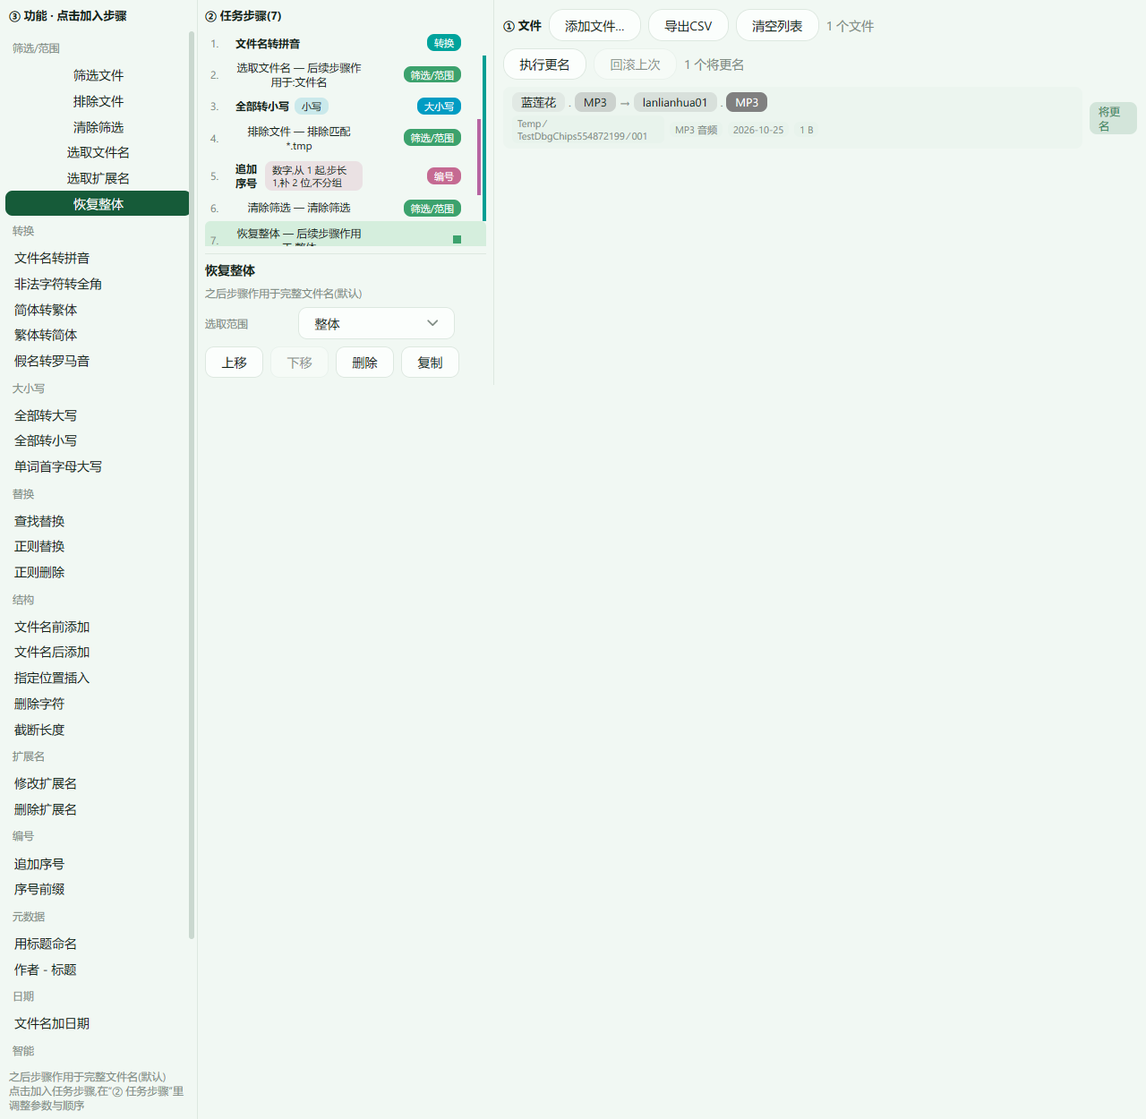
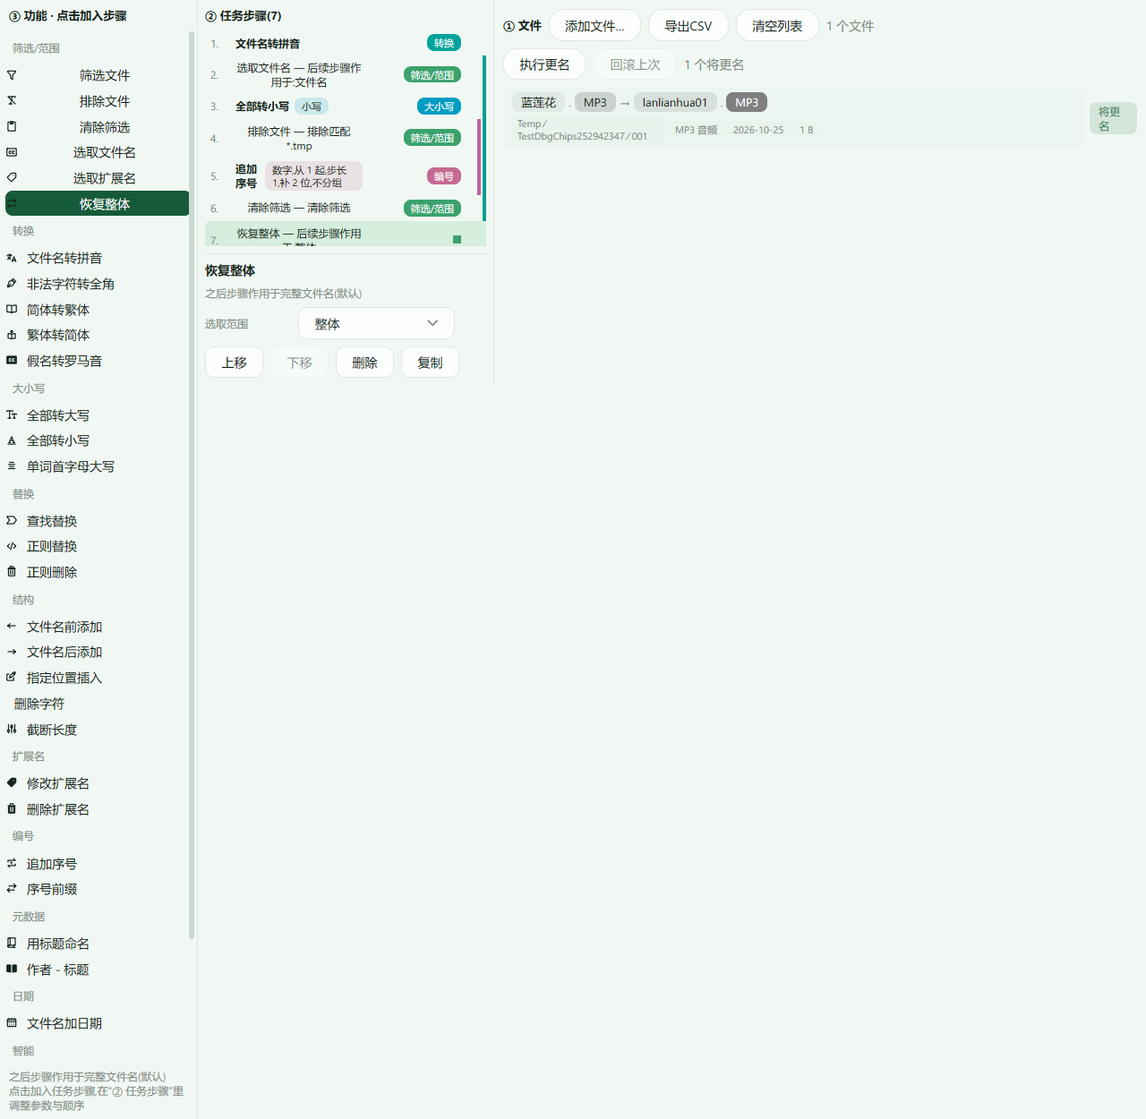
feat: 引入 Flowbite 图标组(MIT, 经 iconify-json 管线生成 32 个内嵌 SVG)——目录条目按功能配图标

diff --git a/gui/rules_editor.go b/gui/rules_editor.go
@@ -50,6 +50,7 @@ type guiRule struct {
 type opDef struct {
 	id, group, label string
 	desc             string // one line of what it does, shown on hover
+	icon             string // flowbite icon op id
 	make             func() guiRule
 	act              string // non-empty: runs an action instead of a step
 	flow             bool   // 流程控制(筛选/范围): not a direct rename
@@ -95,139 +96,139 @@ func baseRule(kind string) guiRule {
 // catalog is the grouped palette of the left pane. Each entry is a full,
 // named operation ("大小转换 · 全部小写"), not a type plus sub-dropdowns.
 var catalog = []opDef{
-	{id: "filter", group: "筛选/范围", flow: true, label: "筛选文件", desc: "之后步骤只作用于匹配通配符的文件(如 *.mp3),其余原样通过", make: func() guiRule {
+	{id: "filter", icon: "filter", group: "筛选/范围", flow: true, label: "筛选文件", desc: "之后步骤只作用于匹配通配符的文件(如 *.mp3),其余原样通过", make: func() guiRule {
 		return baseRule("filter")
 	}},
-	{id: "filter.out", group: "筛选/范围", flow: true, label: "排除文件", desc: "排除匹配的文件,其余文件继续被后续步骤处理", make: func() guiRule {
+	{id: "filter.out", icon: "filter.out", group: "筛选/范围", flow: true, label: "排除文件", desc: "排除匹配的文件,其余文件继续被后续步骤处理", make: func() guiRule {
 		r := baseRule("filter")
 		r.invert = true
 		return r
 	}},
-	{id: "unfilter", group: "筛选/范围", flow: true, label: "清除筛选", desc: "取消筛选,恢复全部文件参与后续步骤", make: func() guiRule {
+	{id: "unfilter", icon: "unfilter", group: "筛选/范围", flow: true, label: "清除筛选", desc: "取消筛选,恢复全部文件参与后续步骤", make: func() guiRule {
 		return baseRule("unfilter")
 	}},
-	{id: "scope.name", group: "筛选/范围", flow: true, label: "选取文件名", desc: "之后步骤只改文件名主体,不动扩展名", make: func() guiRule {
+	{id: "scope.name", icon: "scope.name", group: "筛选/范围", flow: true, label: "选取文件名", desc: "之后步骤只改文件名主体,不动扩展名", make: func() guiRule {
 		r := baseRule("scope")
 		r.scopeSel = "文件名"
 		return r
 	}},
-	{id: "scope.ext", group: "筛选/范围", flow: true, label: "选取扩展名", desc: "之后步骤只改扩展名,不动文件名主体", make: func() guiRule {
+	{id: "scope.ext", icon: "scope.ext", group: "筛选/范围", flow: true, label: "选取扩展名", desc: "之后步骤只改扩展名,不动文件名主体", make: func() guiRule {
 		r := baseRule("scope")
 		r.scopeSel = "扩展名"
 		return r
 	}},
-	{id: "scope.all", group: "筛选/范围", flow: true, label: "恢复整体", desc: "之后步骤作用于完整文件名(默认)", make: func() guiRule {
+	{id: "scope.all", icon: "scope.all", group: "筛选/范围", flow: true, label: "恢复整体", desc: "之后步骤作用于完整文件名(默认)", make: func() guiRule {
 		r := baseRule("scope")
 		r.scopeSel = "整体"
 		return r
 	}},
-	{id: "pinyin", group: "转换", label: "文件名转拼音", desc: "汉字转拼音,全角字母数字自动转半角", make: func() guiRule {
+	{id: "pinyin", icon: "pinyin", group: "转换", label: "文件名转拼音", desc: "汉字转拼音,全角字母数字自动转半角", make: func() guiRule {
 		return baseRule("pinyin")
 	}},
-	{id: "sanitize", group: "转换", label: "非法字符转全角", desc: "Windows 保留字符(如 : / ? *)转为全角,信息不丢失", make: func() guiRule {
+	{id: "sanitize", icon: "sanitize", group: "转换", label: "非法字符转全角", desc: "Windows 保留字符(如 : / ? *)转为全角,信息不丢失", make: func() guiRule {
 		return baseRule("sanitize")
 	}},
-	{id: "cc.s2t", group: "转换", label: "简体转繁体", desc: "用 OpenCC 词典把文件名转为繁体", make: func() guiRule {
+	{id: "cc.s2t", icon: "cc.s2t", group: "转换", label: "简体转繁体", desc: "用 OpenCC 词典把文件名转为繁体", make: func() guiRule {
 		r := baseRule("cc")
 		r.ccSel = "简体→繁体"
 		return r
 	}},
-	{id: "cc.t2s", group: "转换", label: "繁体转简体", desc: "用 OpenCC 词典把文件名转为简体", make: func() guiRule {
+	{id: "cc.t2s", icon: "cc.t2s", group: "转换", label: "繁体转简体", desc: "用 OpenCC 词典把文件名转为简体", make: func() guiRule {
 		r := baseRule("cc")
 		r.ccSel = "繁体→简体"
 		return r
 	}},
-	{id: "romaji", group: "转换", label: "假名转罗马音", desc: "平假名/片假名转拉丁字母(汉字保留)", make: func() guiRule {
+	{id: "romaji", icon: "romaji", group: "转换", label: "假名转罗马音", desc: "平假名/片假名转拉丁字母(汉字保留)", make: func() guiRule {
 		return baseRule("romaji")
 	}},
-	{id: "case.upper", group: "大小写", label: "全部转大写", desc: "文件名所有字母转大写", make: func() guiRule {
+	{id: "case.upper", icon: "case.upper", group: "大小写", label: "全部转大写", desc: "文件名所有字母转大写", make: func() guiRule {
 		r := baseRule("case")
 		r.caseMode = "大写"
 		return r
 	}},
-	{id: "case.lower", group: "大小写", label: "全部转小写", desc: "文件名所有字母转小写", make: func() guiRule {
+	{id: "case.lower", icon: "case.lower", group: "大小写", label: "全部转小写", desc: "文件名所有字母转小写", make: func() guiRule {
 		r := baseRule("case")
 		r.caseMode = "小写"
 		return r
 	}},
-	{id: "case.title", group: "大小写", label: "单词首字母大写", desc: "每个单词首字母大写(标题式)", make: func() guiRule {
+	{id: "case.title", icon: "case.title", group: "大小写", label: "单词首字母大写", desc: "每个单词首字母大写(标题式)", make: func() guiRule {
 		r := baseRule("case")
 		r.caseMode = "标题"
 		return r
 	}},
-	{id: "replace", group: "替换", label: "查找替换", desc: "把查找的文字替换为指定内容", make: func() guiRule {
+	{id: "replace", icon: "replace", group: "替换", label: "查找替换", desc: "把查找的文字替换为指定内容", make: func() guiRule {
 		return baseRule("replace")
 	}},
-	{id: "replace.re", group: "替换", label: "正则替换", desc: "用正则表达式查找并替换", make: func() guiRule {
+	{id: "replace.re", icon: "replace.re", group: "替换", label: "正则替换", desc: "用正则表达式查找并替换", make: func() guiRule {
 		r := baseRule("replace")
 		r.regex = true
 		return r
 	}},
-	{id: "del.re", group: "替换", label: "正则删除", desc: "删除正则表达式匹配到的部分", make: func() guiRule {
+	{id: "del.re", icon: "del.re", group: "替换", label: "正则删除", desc: "删除正则表达式匹配到的部分", make: func() guiRule {
 		r := baseRule("replace")
 		r.regex = true
 		return r
 	}},
-	{id: "ins.front", group: "结构", label: "文件名前添加", desc: "在文件名主体开头插入文字", make: func() guiRule {
+	{id: "ins.front", icon: "ins.front", group: "结构", label: "文件名前添加", desc: "在文件名主体开头插入文字", make: func() guiRule {
 		r := baseRule("insert")
 		r.insMode = "front"
 		return r
 	}},
-	{id: "ins.end", group: "结构", label: "文件名后添加", desc: "在文件名主体末尾(扩展名之前)插入文字", make: func() guiRule {
+	{id: "ins.end", icon: "ins.end", group: "结构", label: "文件名后添加", desc: "在文件名主体末尾(扩展名之前)插入文字", make: func() guiRule {
 		r := baseRule("insert")
 		r.insMode = "end"
 		return r
 	}},
-	{id: "insert", group: "结构", label: "指定位置插入", desc: "从第 N 个字符处插入文字", make: func() guiRule {
+	{id: "insert", icon: "insert", group: "结构", label: "指定位置插入", desc: "从第 N 个字符处插入文字", make: func() guiRule {
 		return baseRule("insert")
 	}},
-	{id: "delete", group: "结构", label: "删除字符", desc: "从第 N 个字符起删除指定数量的字符", make: func() guiRule {
+	{id: "delete", icon: "delete", group: "结构", label: "删除字符", desc: "从第 N 个字符起删除指定数量的字符", make: func() guiRule {
 		return baseRule("delete")
 	}},
-	{id: "truncate", group: "结构", label: "截断长度", desc: "文件名主体最多保留 N 个字符", make: func() guiRule {
+	{id: "truncate", icon: "truncate", group: "结构", label: "截断长度", desc: "文件名主体最多保留 N 个字符", make: func() guiRule {
 		return baseRule("truncate")
 	}},
-	{id: "ext", group: "扩展名", label: "修改扩展名", desc: "替换扩展名;填空则删除扩展名", make: func() guiRule {
+	{id: "ext", icon: "ext", group: "扩展名", label: "修改扩展名", desc: "替换扩展名;填空则删除扩展名", make: func() guiRule {
 		return baseRule("ext")
 	}},
-	{id: "ext.del", group: "扩展名", label: "删除扩展名", desc: "去掉文件的扩展名", make: func() guiRule {
+	{id: "ext.del", icon: "ext.del", group: "扩展名", label: "删除扩展名", desc: "去掉文件的扩展名", make: func() guiRule {
 		r := baseRule("ext")
 		r.newExt = ""
 		return r
 	}},
-	{id: "seq", group: "编号", label: "追加序号", desc: "文件名末尾追加编号;可分组重新计数、补零、用字母", make: func() guiRule {
+	{id: "seq", icon: "seq", group: "编号", label: "追加序号", desc: "文件名末尾追加编号;可分组重新计数、补零、用字母", make: func() guiRule {
 		return baseRule("seq")
 	}},
-	{id: "seq.prefix", group: "编号", label: "序号前缀", desc: "编号放文件名前面,如 01-原名", make: func() guiRule {
+	{id: "seq.prefix", icon: "seq.prefix", group: "编号", label: "序号前缀", desc: "编号放文件名前面,如 01-原名", make: func() guiRule {
 		r := baseRule("seq")
 		r.numTpl = "<N>-<NAME><.EXT>"
 		return r
 	}},
-	{id: "meta.title", group: "元数据", label: "用标题命名", desc: "用元数据标题(EPUB/MP4/PDF)作为文件名", make: func() guiRule {
+	{id: "meta.title", icon: "meta.title", group: "元数据", label: "用标题命名", desc: "用元数据标题(EPUB/MP4/PDF)作为文件名", make: func() guiRule {
 		r := baseRule("template")
 		r.tpl = "<META:title><.EXT>"
 		return r
 	}},
-	{id: "meta.author", group: "元数据", label: "作者 - 标题", desc: "用元数据的作者和标题命名,如 作者 - 书名", make: func() guiRule {
+	{id: "meta.author", icon: "meta.author", group: "元数据", label: "作者 - 标题", desc: "用元数据的作者和标题命名,如 作者 - 书名", make: func() guiRule {
 		r := baseRule("template")
 		r.tpl = "<META:author> - <META:title><.EXT>"
 		return r
 	}},
-	{id: "date.suffix", group: "日期", label: "文件名加日期", desc: "文件名后附加文件修改日期", make: func() guiRule {
+	{id: "date.suffix", icon: "date.suffix", group: "日期", label: "文件名加日期", desc: "文件名后附加文件修改日期", make: func() guiRule {
 		r := baseRule("template")
 		r.tpl = "<NAME>_<DATE><.EXT>"
 		return r
 	}},
-	{id: "ai", group: "智能", label: "AI 按内容命名", desc: "调用 AI 接口读文件内容,按内容起名(需在设置里配置)", make: func() guiRule {
+	{id: "ai", icon: "ai", group: "智能", label: "AI 按内容命名", desc: "调用 AI 接口读文件内容,按内容起名(需在设置里配置)", make: func() guiRule {
 		r := baseRule("template")
 		r.tpl = "<AI:根据文件内容起一个简短的名字><.EXT>"
 		return r
 	}},
-	{id: "tpl", group: "高级", label: "自定义模板", desc: "用变量模板重建文件名,可用 <NAME> <DATE> <META:…> 等", make: func() guiRule {
+	{id: "tpl", icon: "tpl", group: "高级", label: "自定义模板", desc: "用变量模板重建文件名,可用 <NAME> <DATE> <META:…> 等", make: func() guiRule {
 		return baseRule("template")
 	}},
-	{id: "act.import-csv", group: "高级", label: "导入编辑好的CSV改名", desc: "按导出的 CSV 列表(new_name 列)批量改名;点击立即执行,不加入步骤", act: "import-csv"},
-	{id: "act.settings", group: "高级", label: "设置", desc: "AI 接口、主题颜色、日志位置;点击打开设置窗口,不加入步骤", act: "settings"},
+	{id: "act.import-csv", icon: "act.import-csv", group: "高级", label: "导入编辑好的CSV改名", desc: "按导出的 CSV 列表(new_name 列)批量改名;点击立即执行,不加入步骤", act: "import-csv"},
+	{id: "act.settings", icon: "act.settings", group: "高级", label: "设置", desc: "AI 接口、主题颜色、日志位置;点击打开设置窗口,不加入步骤", act: "settings"},
 }
 
 func opByID(id string) (opDef, bool) {

diff --git a/gui/flowbite_gen.go b/gui/flowbite_gen.go
@@ -1,0 +1,38 @@
+// Code generated from @iconify-json/flowbite (MIT) icons.json; do not edit.
+// https://github.com/themesberg/flowbite-icons — 字形以 currentColor 描边,跟随文字色。
+package main
+
+var flowbiteBodies = map[string]string{
+	"filter":         "<svg xmlns=\"http://www.w3.org/2000/svg\" viewBox=\"0 0 24 24\" fill=\"none\"><path fill=\"none\" stroke=\"currentColor\" stroke-linecap=\"round\" stroke-width=\"2\" d=\"M18.796 4H5.204a1 1 0 0 0-.753 1.659l5.302 6.058a1 1 0 0 1 .247.659v4.874a.5.5 0 0 0 .2.4l3 2.25a.5.5 0 0 0 .8-.4v-7.124a1 1 0 0 1 .247-.659l5.302-6.059c.566-.646.106-1.658-.753-1.658Z\"/></svg>",
+	"filter.out":     "<svg xmlns=\"http://www.w3.org/2000/svg\" viewBox=\"0 0 24 24\" fill=\"none\"><path fill=\"none\" stroke=\"currentColor\" stroke-linecap=\"round\" stroke-linejoin=\"round\" stroke-width=\"2\" d=\"M7 6.2V5h12v1.2M7 19h6m.2-14l-1.677 6.523M9.6 19l1.029-4M5 5l6.523 6.523M19 19l-7.477-7.477\"/></svg>",
+	"unfilter":       "<svg xmlns=\"http://www.w3.org/2000/svg\" viewBox=\"0 0 24 24\" fill=\"none\"><path fill=\"none\" stroke=\"currentColor\" stroke-linecap=\"round\" stroke-linejoin=\"round\" stroke-width=\"2\" d=\"M15 4h3a1 1 0 0 1 1 1v15a1 1 0 0 1-1 1H6a1 1 0 0 1-1-1V5a1 1 0 0 1 1-1h3m0 3h6m-5-4v4h4V3z\"/></svg>",
+	"scope.name":     "<svg xmlns=\"http://www.w3.org/2000/svg\" viewBox=\"0 0 24 24\" fill=\"none\"><path fill=\"none\" stroke=\"currentColor\" stroke-linecap=\"round\" stroke-linejoin=\"round\" stroke-width=\"2\" d=\"M10.855 14.322a2.475 2.475 0 1 1 .133-4.241m6.053 4.241a2.475 2.475 0 1 1 .133-4.241M4 5h16a1 1 0 0 1 1 1v12a1 1 0 0 1-1 1H4a1 1 0 0 1-1-1V6a1 1 0 0 1 1-1\"/></svg>",
+	"scope.ext":      "<svg xmlns=\"http://www.w3.org/2000/svg\" viewBox=\"0 0 24 24\" fill=\"none\"><path fill=\"none\" stroke=\"currentColor\" stroke-linecap=\"round\" stroke-linejoin=\"round\" stroke-width=\"2\" d=\"M15.583 8.445h.01M10.86 19.71l-6.573-6.63a.993.993 0 0 1 0-1.4l7.329-7.394A.98.98 0 0 1 12.31 4l5.734.007A1.97 1.97 0 0 1 20 5.983v5.5a1 1 0 0 1-.316.727l-7.44 7.5a.974.974 0 0 1-1.384.001Z\"/></svg>",
+	"scope.all":      "<svg xmlns=\"http://www.w3.org/2000/svg\" viewBox=\"0 0 24 24\" fill=\"none\"><path fill=\"none\" stroke=\"currentColor\" stroke-linecap=\"round\" stroke-linejoin=\"round\" stroke-width=\"2\" d=\"m16 10l3-3m0 0l-3-3m3 3H5v3m3 4l-3 3m0 0l3 3m-3-3h14v-3\"/></svg>",
+	"pinyin":         "<svg xmlns=\"http://www.w3.org/2000/svg\" viewBox=\"0 0 24 24\" fill=\"none\"><path fill=\"none\" stroke=\"currentColor\" stroke-linecap=\"round\" stroke-linejoin=\"round\" stroke-width=\"2\" d=\"m13 19l3.5-9l3.5 9m-6.125-2h5.25M3 7h7m0 0h2m-2 0c0 1.63-.793 3.926-2.239 5.655M7.5 6.818V5m.261 7.655C6.79 13.82 5.521 14.725 4 15m3.761-2.345L5 10m2.761 2.655L10.2 15\"/></svg>",
+	"sanitize":       "<svg xmlns=\"http://www.w3.org/2000/svg\" viewBox=\"0 0 24 24\" fill=\"none\"><path fill=\"none\" stroke=\"currentColor\" stroke-linecap=\"round\" stroke-linejoin=\"round\" stroke-width=\"2\" d=\"m4.988 19.012l5.41-5.41m2.366-6.424l4.058 4.058l-2.03 5.41L5.3 20L4 18.701l3.355-9.494l5.41-2.029Zm4.626 4.625L12.197 6.61L14.807 4L20 9.194z\"/></svg>",
+	"cc.s2t":         "<svg xmlns=\"http://www.w3.org/2000/svg\" viewBox=\"0 0 24 24\" fill=\"none\"><path fill=\"none\" stroke=\"currentColor\" stroke-linecap=\"round\" stroke-linejoin=\"round\" stroke-width=\"2\" d=\"M12 6.03v13m0-13c-2.819-.831-4.715-1.076-8.029-1.023A.99.99 0 0 0 3 6v11c0 .563.466 1.014 1.03 1.007c3.122-.043 5.018.212 7.97 1.023m0-13c2.819-.831 4.715-1.076 8.029-1.023A.99.99 0 0 1 21 6v11c0 .563-.466 1.014-1.03 1.007c-3.122-.043-5.018.212-7.97 1.023\"/></svg>",
+	"cc.t2s":         "<svg xmlns=\"http://www.w3.org/2000/svg\" viewBox=\"0 0 24 24\" fill=\"none\"><path fill=\"none\" stroke=\"currentColor\" stroke-linejoin=\"round\" stroke-width=\"2\" d=\"M12.143 11v9m0-9c-2.506-.71-3.191-1.395-6.137-1.35a.864.864 0 0 0-.863.85v7.288c0 .483.414.869.916.862c2.775-.036 3.46.656 6.084 1.35m0-9c2.505-.71 3.107-1.395 6.052-1.35c.48.008.948.388.948.85v7.288c0 .483-.499.869-1 .862c-2.775-.036-3.376.656-6 1.35m2-14a2 2 0 1 1-4 0a2 2 0 0 1 4 0Z\"/></svg>",
+	"romaji":         "<svg xmlns=\"http://www.w3.org/2000/svg\" viewBox=\"0 0 24 24\" fill=\"none\"><path fill=\"currentColor\" fill-rule=\"evenodd\" d=\"M2 6a2 2 0 0 1 2-2h16a2 2 0 0 1 2 2v12a2 2 0 0 1-2 2H4a2 2 0 0 1-2-2zm6.962 4.856a1.48 1.48 0 0 1 1.484.066A1 1 0 1 0 11.53 9.24a3.475 3.475 0 1 0-.187 5.955a1 1 0 1 0-.976-1.746a1.474 1.474 0 1 1-1.405-2.593m6.186 0a1.48 1.48 0 0 1 1.484.066a1 1 0 1 0 1.084-1.682a3.475 3.475 0 1 0-.187 5.955a1 1 0 1 0-.976-1.746a1.474 1.474 0 1 1-1.405-2.593\" clip-rule=\"evenodd\"/></svg>",
+	"case.upper":     "<svg xmlns=\"http://www.w3.org/2000/svg\" viewBox=\"0 0 24 24\" fill=\"none\"><path fill=\"none\" stroke=\"currentColor\" stroke-linecap=\"round\" stroke-linejoin=\"round\" stroke-width=\"2\" d=\"M3 6.2V5h11v1.2M8 5v14m-3 0h6m2-6.8V11h8v1.2M17 11v8m-1.5 0h3\"/></svg>",
+	"case.lower":     "<svg xmlns=\"http://www.w3.org/2000/svg\" viewBox=\"0 0 24 24\" fill=\"none\"><path fill=\"none\" stroke=\"currentColor\" stroke-linecap=\"round\" stroke-width=\"2\" d=\"M5 19h14M7.6 16l4.298-10.93a.11.11 0 0 1 .204 0L16.4 16m-8.8 0H6.5m1.1 0h1.65m7.15 0h-1.65m1.65 0h1.1m-8.333-4h5.66\"/></svg>",
+	"case.title":     "<svg xmlns=\"http://www.w3.org/2000/svg\" viewBox=\"0 0 24 24\" fill=\"none\"><path fill=\"none\" stroke=\"currentColor\" stroke-linecap=\"round\" stroke-linejoin=\"round\" stroke-width=\"2\" d=\"M8 6h8M6 10h12M8 14h8M6 18h12\"/></svg>",
+	"replace":        "<svg xmlns=\"http://www.w3.org/2000/svg\" viewBox=\"0 0 24 24\" fill=\"none\"><path fill=\"none\" stroke=\"currentColor\" stroke-linecap=\"round\" stroke-linejoin=\"round\" stroke-width=\"2\" d=\"M16.153 19L21 12l-4.847-7H3l4.848 7L3 19z\"/></svg>",
+	"replace.re":     "<svg xmlns=\"http://www.w3.org/2000/svg\" viewBox=\"0 0 24 24\" fill=\"none\"><path fill=\"none\" stroke=\"currentColor\" stroke-linecap=\"round\" stroke-linejoin=\"round\" stroke-width=\"2\" d=\"m8 8l-4 4l4 4m8 0l4-4l-4-4m-2-3l-4 14\"/></svg>",
+	"del.re":         "<svg xmlns=\"http://www.w3.org/2000/svg\" viewBox=\"0 0 24 24\" fill=\"none\"><path fill=\"none\" stroke=\"currentColor\" stroke-linecap=\"round\" stroke-linejoin=\"round\" stroke-width=\"2\" d=\"M5 7h14m-9 3v8m4-8v8M10 3h4a1 1 0 0 1 1 1v3H9V4a1 1 0 0 1 1-1M6 7h12v13a1 1 0 0 1-1 1H7a1 1 0 0 1-1-1z\"/></svg>",
+	"ins.front":      "<svg xmlns=\"http://www.w3.org/2000/svg\" viewBox=\"0 0 24 24\" fill=\"none\"><path fill=\"none\" stroke=\"currentColor\" stroke-linecap=\"round\" stroke-linejoin=\"round\" stroke-width=\"2\" d=\"M5 12h14M5 12l4-4m-4 4l4 4\"/></svg>",
+	"ins.end":        "<svg xmlns=\"http://www.w3.org/2000/svg\" viewBox=\"0 0 24 24\" fill=\"none\"><path fill=\"none\" stroke=\"currentColor\" stroke-linecap=\"round\" stroke-linejoin=\"round\" stroke-width=\"2\" d=\"M19 12H5m14 0l-4 4m4-4l-4-4\"/></svg>",
+	"insert":         "<svg xmlns=\"http://www.w3.org/2000/svg\" viewBox=\"0 0 24 24\" fill=\"none\"><path fill=\"none\" stroke=\"currentColor\" stroke-linecap=\"round\" stroke-linejoin=\"round\" stroke-width=\"2\" d=\"m14.304 4.844l2.852 2.852M7 7H4a1 1 0 0 0-1 1v10a1 1 0 0 0 1 1h11a1 1 0 0 0 1-1v-4.5m2.409-9.91a2.017 2.017 0 0 1 0 2.853l-6.844 6.844L8 14l.713-3.565l6.844-6.844a2.015 2.015 0 0 1 2.852 0Z\"/></svg>",
+	"truncate":       "<svg xmlns=\"http://www.w3.org/2000/svg\" viewBox=\"0 0 24 24\" fill=\"none\"><path fill=\"none\" stroke=\"currentColor\" stroke-linecap=\"round\" stroke-width=\"2\" d=\"M6 4v10m0 0a2 2 0 1 0 0 4m0-4a2 2 0 1 1 0 4m0 0v2m6-16v2m0 0a2 2 0 1 0 0 4m0-4a2 2 0 1 1 0 4m0 0v10m6-16v10m0 0a2 2 0 1 0 0 4m0-4a2 2 0 1 1 0 4m0 0v2\"/></svg>",
+	"ext":            "<svg xmlns=\"http://www.w3.org/2000/svg\" viewBox=\"0 0 24 24\" fill=\"none\"><path fill=\"currentColor\" d=\"M18.045 3.007L12.31 3a1.97 1.97 0 0 0-1.4.585l-7.33 7.394a2 2 0 0 0 0 2.805l6.573 6.631a1.96 1.96 0 0 0 1.4.585a1.97 1.97 0 0 0 1.4-.585l7.409-7.477A2 2 0 0 0 21 11.479v-5.5a2.97 2.97 0 0 0-2.955-2.972m-2.452 6.438a1 1 0 1 1 0-2a1 1 0 0 1 0 2\"/></svg>",
+	"ext.del":        "<svg xmlns=\"http://www.w3.org/2000/svg\" viewBox=\"0 0 24 24\" fill=\"none\"><path fill=\"currentColor\" fill-rule=\"evenodd\" d=\"M8.586 2.586A2 2 0 0 1 10 2h4a2 2 0 0 1 2 2v2h3a1 1 0 1 1 0 2v12a2 2 0 0 1-2 2H7a2 2 0 0 1-2-2V8a1 1 0 0 1 0-2h3V4a2 2 0 0 1 .586-1.414M10 6h4V4h-4zm1 4a1 1 0 1 0-2 0v8a1 1 0 1 0 2 0zm4 0a1 1 0 1 0-2 0v8a1 1 0 1 0 2 0z\" clip-rule=\"evenodd\"/></svg>",
+	"seq":            "<svg xmlns=\"http://www.w3.org/2000/svg\" viewBox=\"0 0 24 24\" fill=\"none\"><path fill=\"none\" stroke=\"currentColor\" stroke-linecap=\"round\" stroke-linejoin=\"round\" stroke-width=\"2\" d=\"m16 4l3 3H5v3m3 10l-3-3h14v-3m-9-2.5l2-1.5v4\"/></svg>",
+	"seq.prefix":     "<svg xmlns=\"http://www.w3.org/2000/svg\" viewBox=\"0 0 24 24\" fill=\"none\"><path fill=\"none\" stroke=\"currentColor\" stroke-linecap=\"round\" stroke-linejoin=\"round\" stroke-width=\"2\" d=\"M4 16h13M4 16l4-4m-4 4l4 4M20 8H7m13 0l-4 4m4-4l-4-4\"/></svg>",
+	"meta.title":     "<svg xmlns=\"http://www.w3.org/2000/svg\" viewBox=\"0 0 24 24\" fill=\"none\"><path fill=\"none\" stroke=\"currentColor\" stroke-linecap=\"round\" stroke-linejoin=\"round\" stroke-width=\"2\" d=\"M5 19V4a1 1 0 0 1 1-1h12a1 1 0 0 1 1 1v13H7a2 2 0 0 0-2 2m0 0a2 2 0 0 0 2 2h12M9 3v14m7 0v4\"/></svg>",
+	"meta.author":    "<svg xmlns=\"http://www.w3.org/2000/svg\" viewBox=\"0 0 24 24\" fill=\"none\"><path fill=\"currentColor\" fill-rule=\"evenodd\" d=\"M11 4.717c-2.286-.58-4.16-.756-7.045-.71A1.99 1.99 0 0 0 2 6v11c0 1.133.934 2.022 2.044 2.007c2.759-.038 4.5.16 6.956.791zm2 15.081c2.456-.631 4.198-.829 6.956-.791A2.013 2.013 0 0 0 22 16.999V6a1.99 1.99 0 0 0-1.955-1.993c-2.885-.046-4.76.13-7.045.71z\" clip-rule=\"evenodd\"/></svg>",
+	"date.suffix":    "<svg xmlns=\"http://www.w3.org/2000/svg\" viewBox=\"0 0 24 24\" fill=\"none\"><path fill=\"none\" stroke=\"currentColor\" stroke-linecap=\"round\" stroke-linejoin=\"round\" stroke-width=\"2\" d=\"M4 10h16m-8-3V4M7 7V4m10 3V4M5 20h14a1 1 0 0 0 1-1V7a1 1 0 0 0-1-1H5a1 1 0 0 0-1 1v12a1 1 0 0 0 1 1m3-7h.01v.01H8zm4 0h.01v.01H12zm4 0h.01v.01H16zm-8 4h.01v.01H8zm4 0h.01v.01H12zm4 0h.01v.01H16z\"/></svg>",
+	"ai":             "<svg xmlns=\"http://www.w3.org/2000/svg\" viewBox=\"0 0 24 24\" fill=\"none\"><path fill=\"none\" stroke=\"currentColor\" stroke-linecap=\"round\" stroke-linejoin=\"round\" stroke-width=\"2\" d=\"M16.872 9.687L20 6.56L17.44 4L4 17.44L6.56 20L16.873 9.687Zm0 0l-2.56-2.56M6 7v2m0 0v2m0-2H4m2 0h2m7 7v2m0 0v2m0-2h-2m2 0h2M8 4h.01v.01H8zm2 2h.01v.01H10zm2-2h.01v.01H12zm8 8h.01v.01H20zm-2 2h.01v.01H18zm2 2h.01v.01H20z\"/></svg>",
+	"tpl":            "<svg xmlns=\"http://www.w3.org/2000/svg\" viewBox=\"0 0 24 24\" fill=\"none\"><path fill=\"none\" stroke=\"currentColor\" stroke-linecap=\"round\" stroke-linejoin=\"round\" stroke-width=\"2\" d=\"M15 4h3a1 1 0 0 1 1 1v15a1 1 0 0 1-1 1H6a1 1 0 0 1-1-1V5a1 1 0 0 1 1-1h3m0 3h6m-3 5h3m-6 0h.01M12 16h3m-6 0h.01M10 3v4h4V3z\"/></svg>",
+	"act.import-csv": "<svg xmlns=\"http://www.w3.org/2000/svg\" viewBox=\"0 0 24 24\" fill=\"none\"><path fill=\"none\" stroke=\"currentColor\" stroke-linecap=\"round\" stroke-linejoin=\"round\" stroke-width=\"2\" d=\"M5 12V7.914a1 1 0 0 1 .293-.707l3.914-3.914A1 1 0 0 1 9.914 3H18a1 1 0 0 1 1 1v16a1 1 0 0 1-1 1H6a1 1 0 0 1-1-1v-4m5-13v4a1 1 0 0 1-1 1H5m0 6h9m0 0l-2-2m2 2l-2 2\"/></svg>",
+	"act.settings":   "<svg xmlns=\"http://www.w3.org/2000/svg\" viewBox=\"0 0 24 24\" fill=\"none\"><g fill=\"none\" stroke=\"currentColor\" stroke-linecap=\"round\" stroke-linejoin=\"round\" stroke-width=\"2\"><path d=\"M21 13v-2a1 1 0 0 0-1-1h-.757l-.707-1.707l.535-.536a1 1 0 0 0 0-1.414l-1.414-1.414a1 1 0 0 0-1.414 0l-.536.535L14 4.757V4a1 1 0 0 0-1-1h-2a1 1 0 0 0-1 1v.757l-1.707.707l-.536-.535a1 1 0 0 0-1.414 0L4.929 6.343a1 1 0 0 0 0 1.414l.536.536L4.757 10H4a1 1 0 0 0-1 1v2a1 1 0 0 0 1 1h.757l.707 1.707l-.535.536a1 1 0 0 0 0 1.414l1.414 1.414a1 1 0 0 0 1.414 0l.536-.535l1.707.707V20a1 1 0 0 0 1 1h2a1 1 0 0 0 1-1v-.757l1.707-.708l.536.536a1 1 0 0 0 1.414 0l1.414-1.414a1 1 0 0 0 0-1.414l-.535-.536l.707-1.707H20a1 1 0 0 0 1-1\"/><path d=\"M12 15a3 3 0 1 0 0-6a3 3 0 0 0 0 6\"/></g></svg>",
+}

diff --git a/gui/icons.go b/gui/icons.go
@@ -1,0 +1,28 @@
+package main
+
+import (
+	"sync"
+
+	"github.com/egoist/mygo/ui"
+)
+
+// flowbite catalog icons, parsed once (ui.MustParseSVG is not free).
+var (
+	iconMu    sync.Mutex
+	iconCache = map[string]*ui.SVG{}
+)
+
+func opIcon(opid string) *ui.SVG {
+	iconMu.Lock()
+	defer iconMu.Unlock()
+	if s, ok := iconCache[opid]; ok {
+		return s
+	}
+	body, ok := flowbiteBodies[opid]
+	if !ok {
+		return nil
+	}
+	s := ui.MustParseSVG([]byte(body))
+	iconCache[opid] = s
+	return s
+}

diff --git a/gui/main.go b/gui/main.go
@@ -116,6 +116,9 @@ func (a *app) catalogView(c *ui.Context) {
 						align = ui.Center
 					}
 					item.Children(func() {
+						if ic := opIcon(d.icon); ic != nil {
+							ui.Icon(c, ic).FontSize(14)
+						}
 						if a.palSel == d.id {
 							ui.Text(c, d.label).SingleLine().Fill().TextAlign(align).Padding(5, 10).TextColor(selFg)
 						} else {
